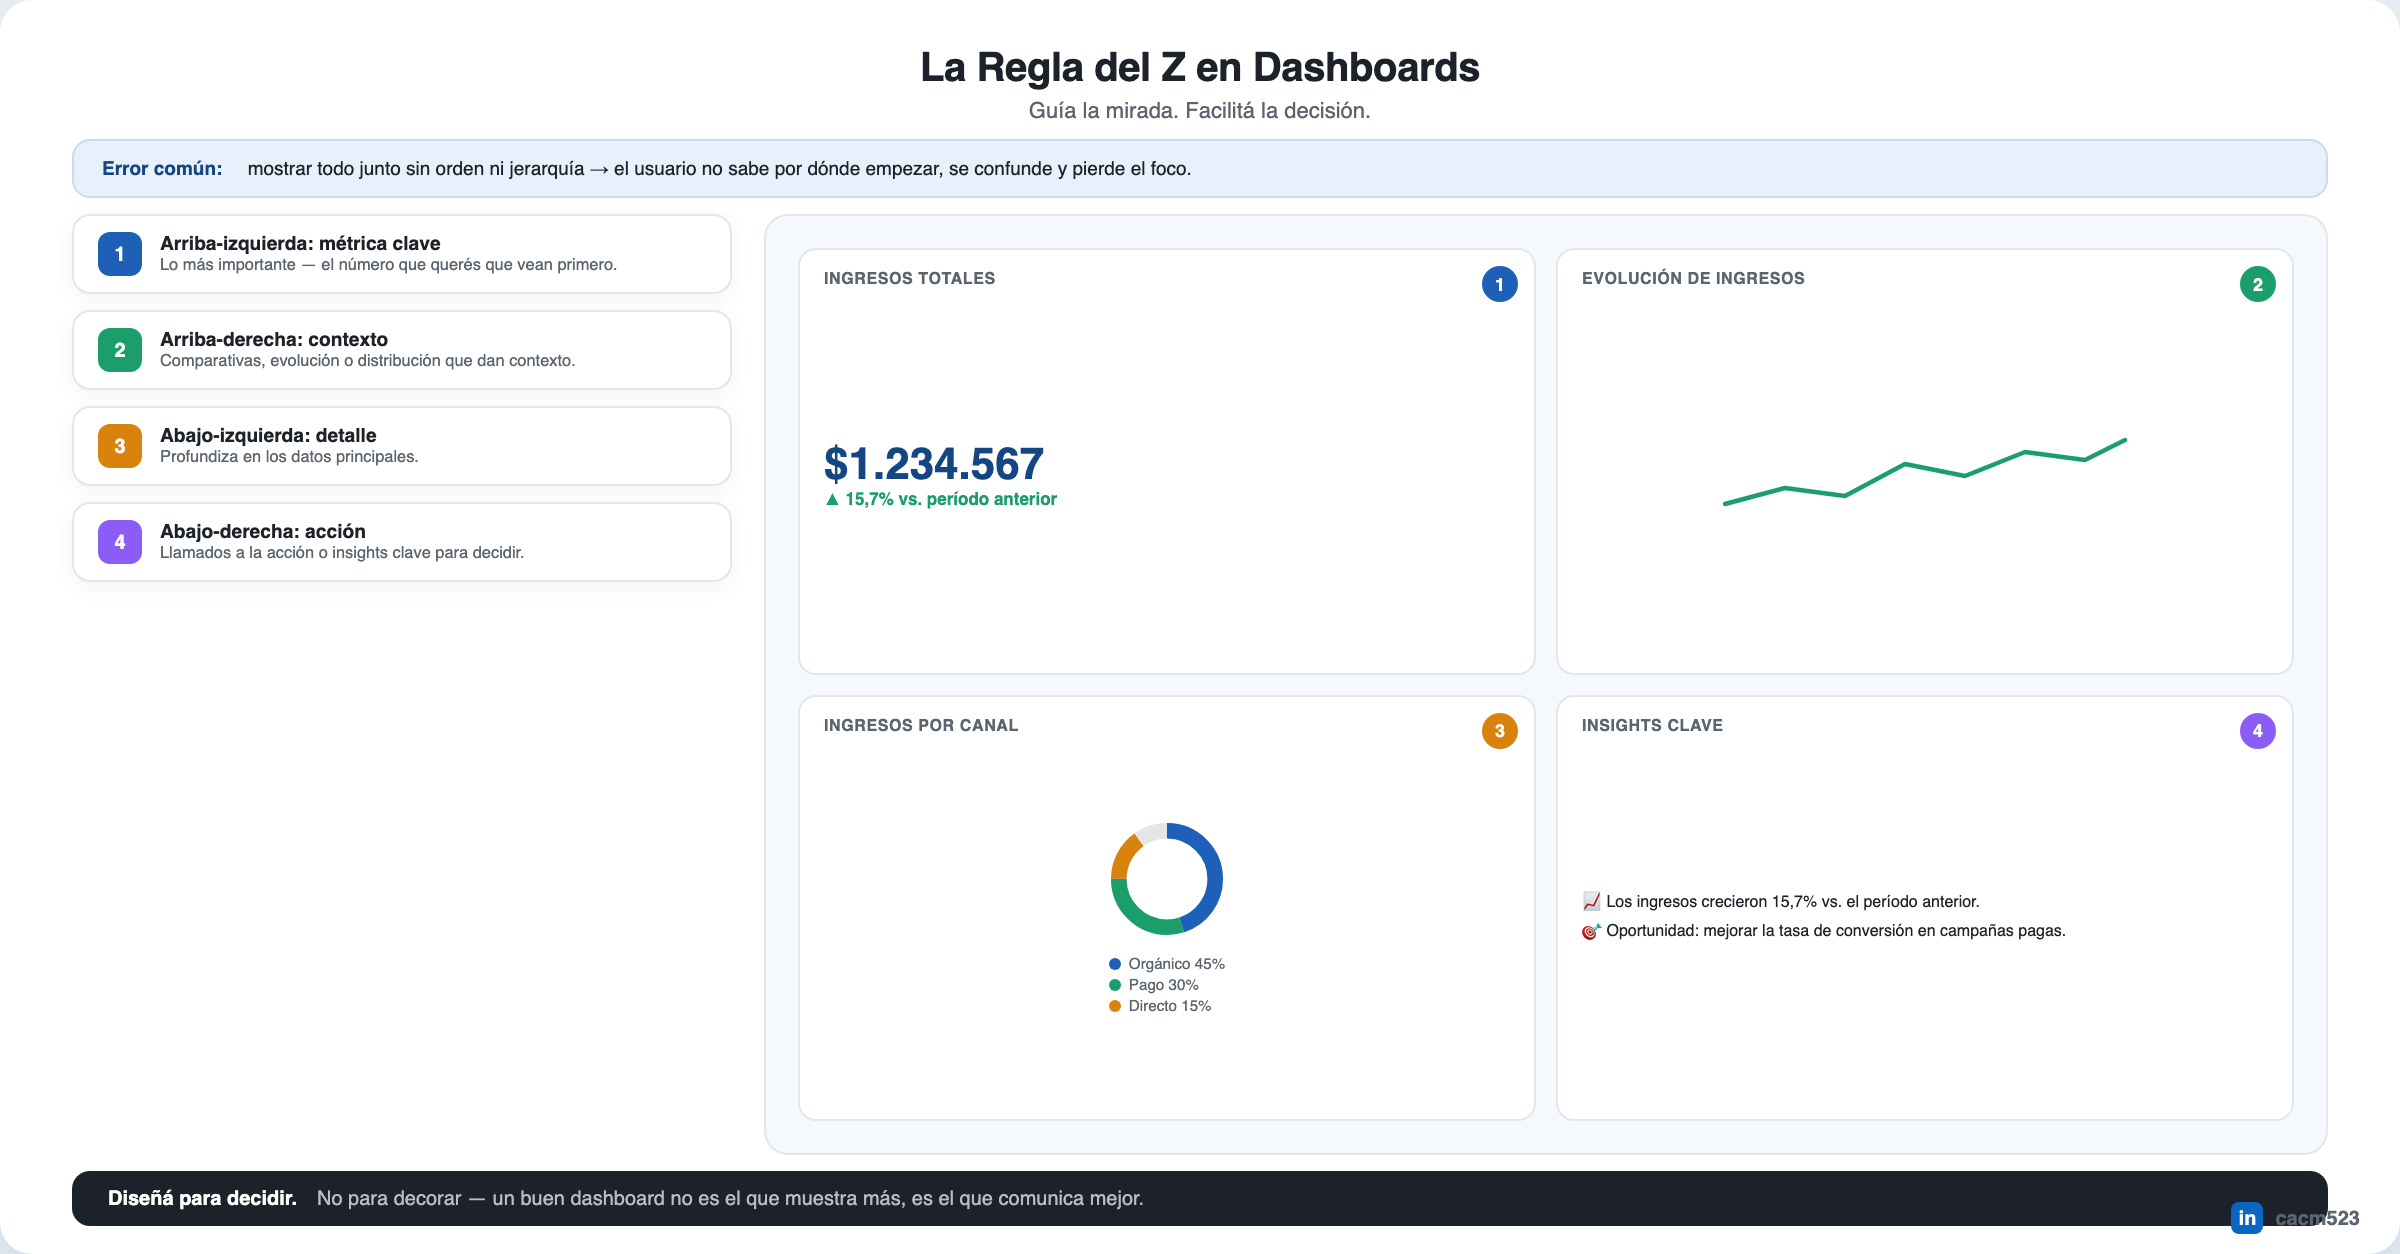
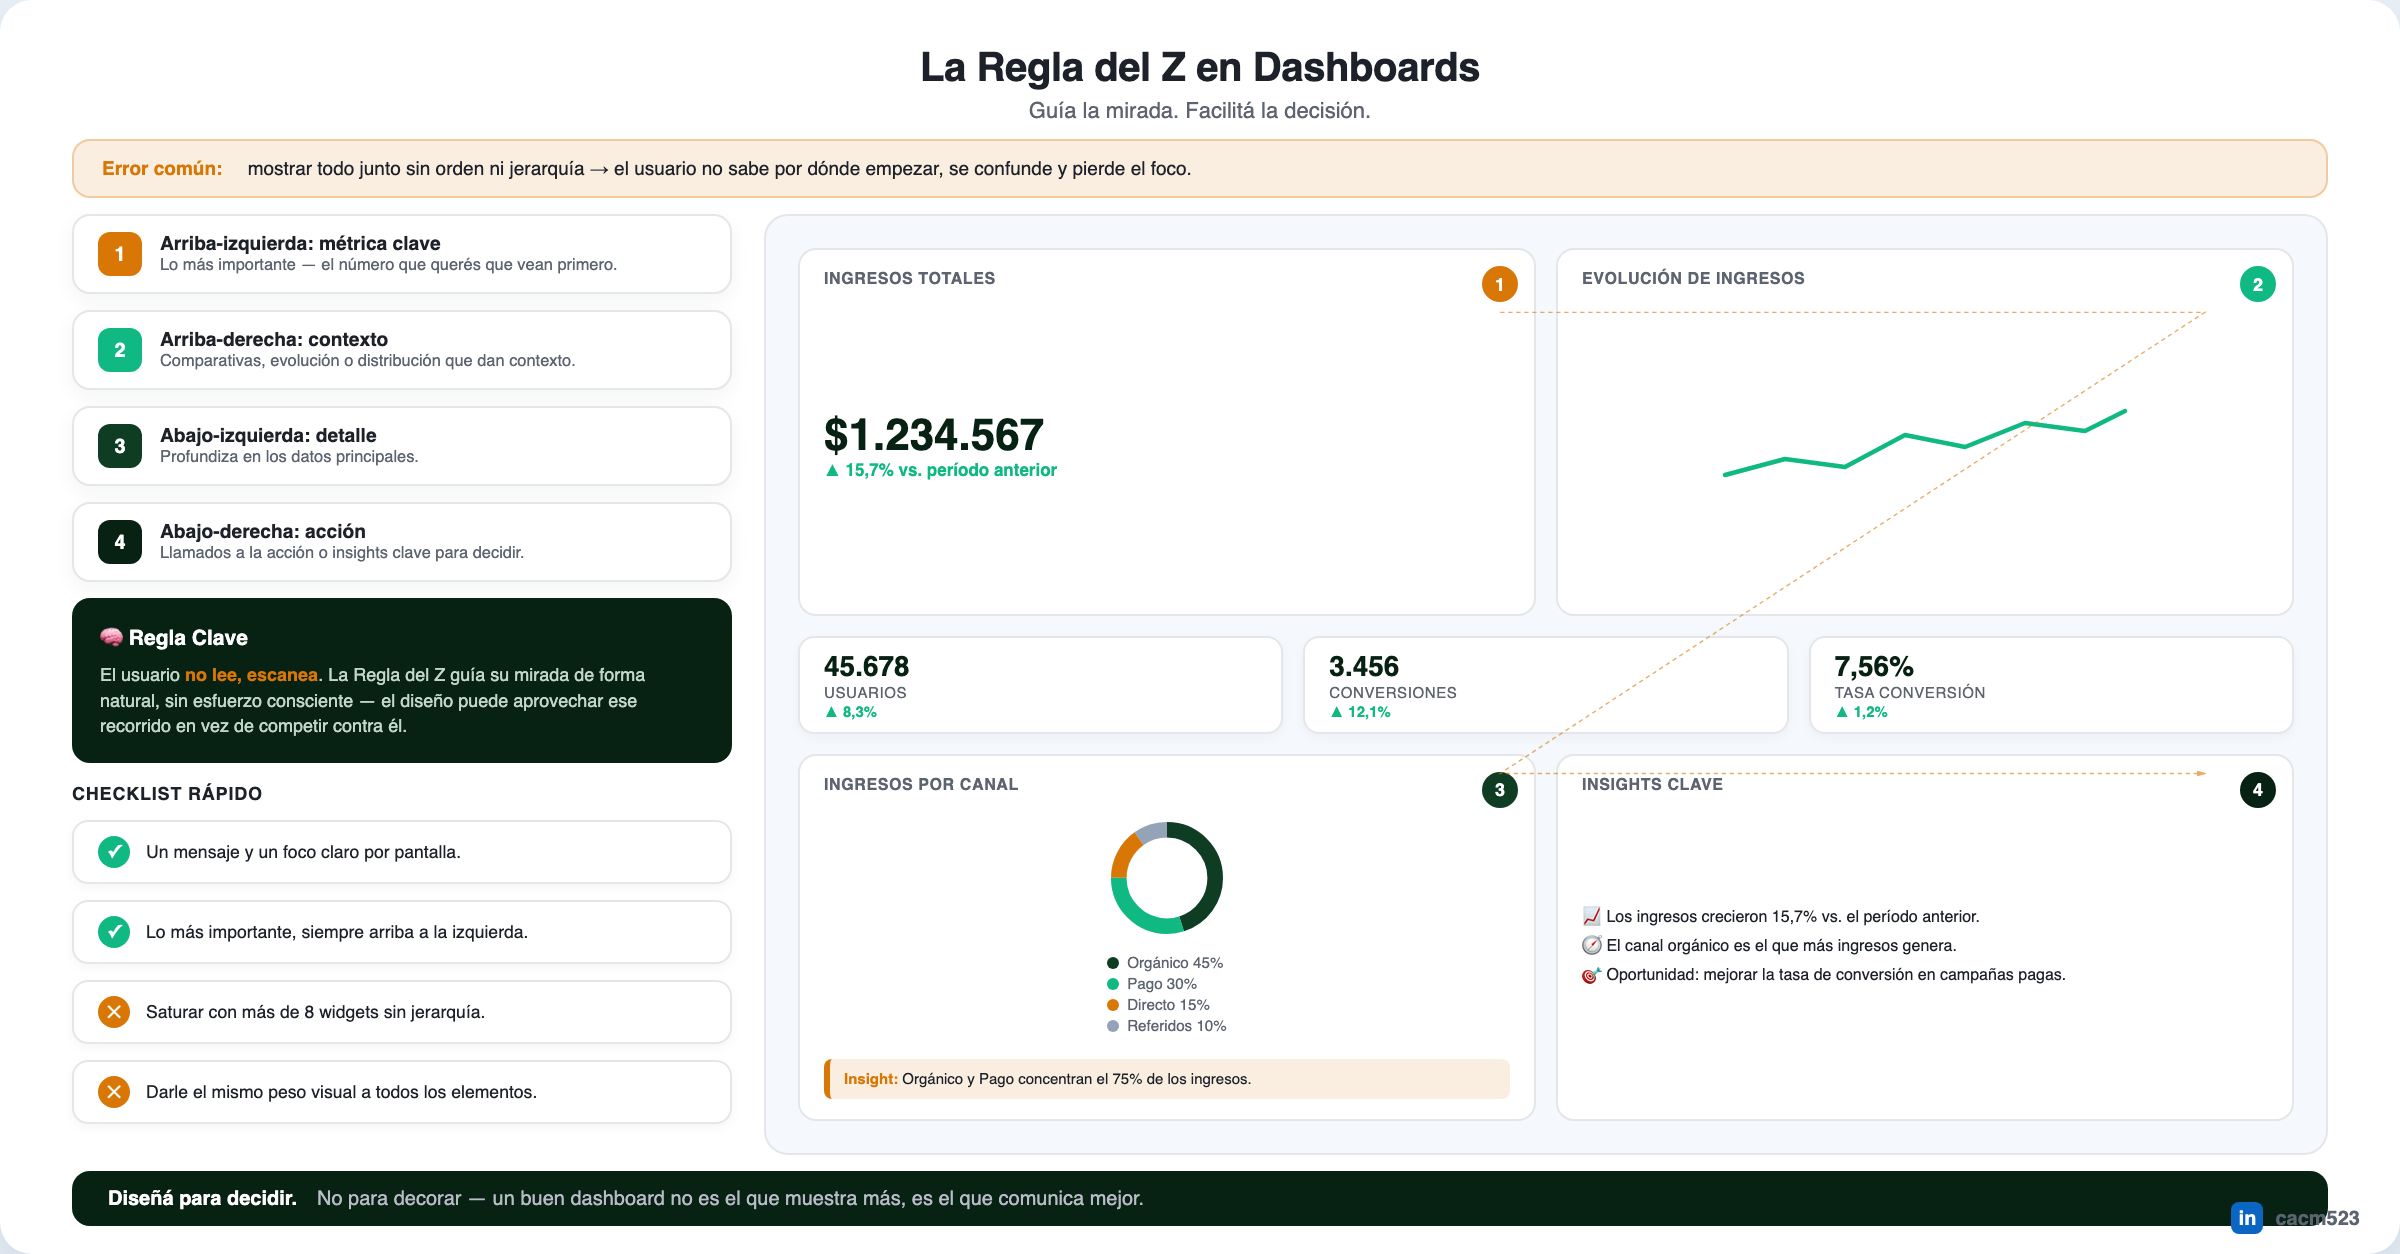
Enriquece y recolorea infografía La Regla del Z en Dashboards
Corrige la paleta azul/verde/ámbar/violeta (fuera del sistema de diseño
del proyecto) a la paleta verde+tierra establecida en INFOGRAFIA-SPEC.md.

Restaura contenido de la referencia original que se había perdido al
construir la pieza: la flecha en Z superpuesta sobre el mockup (existía
una clase .zpath definida en el CSS pero nunca usada en el HTML), la fila
de 3 KPIs secundarios (Usuarios, Conversiones, Tasa de Conversión), la
4ª categoría del donut "Referidos 10%" (antes el desglose sumaba 90%, no
100%), y el insight "el canal orgánico es el que más ingresos genera".

Agrega un panel "Regla Clave" y un checklist rápido (2 aciertos / 2
errores comunes) para aprovechar el espacio vacío de la columna
izquierda, señalado por el usuario como subutilizado.

diff --git a/Construidos/Dashboard/reglas-diseno-dashboard.html b/Construidos/Dashboard/reglas-diseno-dashboard.html
@@ -6,8 +6,9 @@
 <meta name="viewport" content="width=device-width, initial-scale=1">
 <style>
   :root{
-    --blue:#1E5FB8; --blue-dark:#154684; --blue-pale:#E8F0FB; --blue-line:#C7DCF3;
-    --green:#1B9E6B; --amber:#D9820E; --purple:#8B5CF6;
+    --green-dark:#072113; --green-primary:#0e3d23; --green-glow:#10b981;
+    --earth-accent:#d97706; --earth-bg:rgba(217,119,6,0.12); --earth-line:rgba(217,119,6,0.3);
+    --gray-accent:#94a3b8;
     --ink:#1D2129; --muted:#5C6470; --line:#E4E6EA; --white:#FFFFFF;
   }
   *{box-sizing:border-box;}
@@ -30,8 +31,8 @@
   .header h1{ font-size:20px; margin:0 0 4px; font-weight:800; letter-spacing:-0.2px; }
   .header p{ margin:0 auto; font-size:11px; color:var(--muted); max-width:640px; }
 
-  .error{ display:flex; gap:10px; background:var(--blue-pale); border:1px solid var(--blue-line); border-radius:9px; padding:8px 14px; margin-bottom:8px; font-size:9.5px; }
-  .error b{ color:var(--blue-dark); }
+  .error{ display:flex; gap:10px; background:var(--earth-bg); border:1px solid var(--earth-line); border-radius:9px; padding:8px 14px; margin-bottom:8px; font-size:9.5px; }
+  .error b{ color:var(--earth-accent); }
 
   .layout{ flex:1; display:grid; grid-template-columns: 330px 1fr; gap:16px; }
 
@@ -41,25 +42,44 @@
   .zone b{ display:block; font-size:9.6px; font-weight:800; }
   .zone span{ display:block; font-size:8.2px; color:var(--muted); line-height:1.3; }
 
+  .rule-callout{ background:var(--green-dark); color:#EDEFF3; border-radius:9px; padding:12px 14px; display:flex; flex-direction:column; gap:5px; }
+  .rule-callout .rc-title{ font-size:10.5px; font-weight:800; color:#fff; display:flex; align-items:center; gap:5px; }
+  .rule-callout p{ margin:0; font-size:9px; line-height:1.42; color:#C3D6CC; }
+  .rule-callout p b{ color:var(--earth-accent); }
+
+  .checklist-title{ font-size:9px; font-weight:800; color:var(--ink); text-transform:uppercase; letter-spacing:0.4px; margin-top:2px; }
+  .check-row{ display:flex; align-items:center; gap:8px; background:var(--white); border:1px solid var(--line); border-radius:8px; padding:7px 12px; font-size:8.8px; color:var(--ink); box-shadow:0 2px 6px rgba(29,33,41,0.04); }
+  .check-row .ck-icon{ width:16px; height:16px; border-radius:50%; flex:none; display:flex; align-items:center; justify-content:center; font-size:9px; font-weight:800; color:#fff; }
+  .check-row.good .ck-icon{ background:var(--green-glow); }
+  .check-row.bad .ck-icon{ background:var(--earth-accent); }
+
   .mockup{ position:relative; background:#F5F8FC; border:1px solid var(--line); border-radius:12px; padding:16px; }
-  .mockup-grid{ position:relative; height:100%; display:grid; grid-template-columns:1fr 1fr; grid-template-rows:1fr 1fr; gap:10px; }
-  .widget{ background:var(--white); border:1px solid var(--line); border-radius:9px; padding:10px 12px; position:relative; display:flex; flex-direction:column; }
-  .widget .badge{ position:absolute; top:8px; right:8px; width:18px; height:18px; border-radius:50%; color:#fff; font-size:9px; font-weight:800; display:flex; align-items:center; justify-content:center; }
+  .mockup-grid{ position:relative; height:100%; display:grid; grid-template-columns:1fr 1fr; grid-template-rows:1fr auto 1fr; gap:10px; }
+  .widget{ background:var(--white); border:1px solid var(--line); border-radius:9px; padding:10px 12px; position:relative; display:flex; flex-direction:column; z-index:1; }
+  .widget .badge{ position:absolute; top:8px; right:8px; width:18px; height:18px; border-radius:50%; color:#fff; font-size:9px; font-weight:800; display:flex; align-items:center; justify-content:center; z-index:3; }
   .widget-body{ flex:1; display:flex; flex-direction:column; justify-content:center; }
   .widget b.lbl{ display:block; font-size:8px; color:var(--muted); text-transform:uppercase; letter-spacing:0.3px; margin-bottom:4px; font-weight:700; }
-  .metric-val{ font-size:22px; font-weight:800; color:var(--blue-dark); }
-  .metric-sub{ font-size:8.5px; color:var(--green); font-weight:700; }
+  .metric-val{ font-size:22px; font-weight:800; color:var(--green-dark); }
+  .metric-sub{ font-size:8.5px; color:var(--green-glow); font-weight:700; }
   .line-chart svg{ width:100%; height:50px; }
   .donut{ display:flex; align-items:center; gap:10px; }
   .donut svg{ width:56px; height:56px; }
   .legend div{ font-size:7.6px; color:var(--muted); display:flex; align-items:center; gap:4px; margin-bottom:2px; }
   .legend .d{ width:6px; height:6px; border-radius:50%; }
   .insight{ font-size:8px; color:var(--ink); display:flex; gap:5px; align-items:flex-start; margin-bottom:4px; line-height:1.3; }
-  .zpath{ position:absolute; inset:16px; pointer-events:none; width:calc(100% - 32px); height:calc(100% - 32px); }
+  .donut-insight{ margin-top:auto; background:var(--earth-bg); border-left:3px solid var(--earth-accent); border-radius:4px; padding:5px 7px; font-size:7.5px; line-height:1.35; color:var(--ink); }
+  .donut-insight b{ color:var(--earth-accent); }
+  .zpath{ position:absolute; inset:16px; pointer-events:none; width:calc(100% - 32px); height:calc(100% - 32px); z-index:2; overflow:visible; }
+
+  .kpi-strip{ grid-column: 1 / -1; display:grid; grid-template-columns:1fr 1fr 1fr; gap:10px; z-index:1; position:relative; }
+  .mini-kpi{ background:var(--white); border:1px solid var(--line); border-radius:8px; padding:6px 12px; display:flex; flex-direction:column; gap:1px; box-shadow:0 2px 6px rgba(29,33,41,0.04); }
+  .mini-val{ font-size:14px; font-weight:800; color:var(--green-dark); }
+  .mini-lbl{ font-size:7.5px; color:var(--muted); text-transform:uppercase; letter-spacing:.3px; }
+  .mini-delta{ font-size:7.5px; color:var(--green-glow); font-weight:700; }
 
   .ribbon{
     margin-top:8px; display:flex; align-items:center; gap:10px;
-    background:var(--ink); color:#EDEFF3; border-radius:9px; padding:8px 18px; font-size:10px;
+    background:var(--green-dark); color:#EDEFF3; border-radius:9px; padding:8px 18px; font-size:10px;
   }
   .ribbon b{ color:#fff; }
   .ribbon span{ color:#B7BCC6; }
@@ -83,33 +103,63 @@
 
     <div class="layout">
       <div class="zones">
-        <div class="zone"><div class="n" style="background:var(--blue);">1</div><div><b>Arriba-izquierda: métrica clave</b><span>Lo más importante — el número que querés que vean primero.</span></div></div>
-        <div class="zone"><div class="n" style="background:var(--green);">2</div><div><b>Arriba-derecha: contexto</b><span>Comparativas, evolución o distribución que dan contexto.</span></div></div>
-        <div class="zone"><div class="n" style="background:var(--amber);">3</div><div><b>Abajo-izquierda: detalle</b><span>Profundiza en los datos principales.</span></div></div>
-        <div class="zone"><div class="n" style="background:var(--purple);">4</div><div><b>Abajo-derecha: acción</b><span>Llamados a la acción o insights clave para decidir.</span></div></div>
+        <div class="zone"><div class="n" style="background:var(--earth-accent);">1</div><div><b>Arriba-izquierda: métrica clave</b><span>Lo más importante — el número que querés que vean primero.</span></div></div>
+        <div class="zone"><div class="n" style="background:var(--green-glow);">2</div><div><b>Arriba-derecha: contexto</b><span>Comparativas, evolución o distribución que dan contexto.</span></div></div>
+        <div class="zone"><div class="n" style="background:var(--green-primary);">3</div><div><b>Abajo-izquierda: detalle</b><span>Profundiza en los datos principales.</span></div></div>
+        <div class="zone"><div class="n" style="background:var(--green-dark);">4</div><div><b>Abajo-derecha: acción</b><span>Llamados a la acción o insights clave para decidir.</span></div></div>
+
+        <div class="rule-callout">
+          <div class="rc-title">🧠 Regla Clave</div>
+          <p>El usuario <b>no lee, escanea</b>. La Regla del Z guía su mirada de forma natural, sin esfuerzo consciente — el diseño puede aprovechar ese recorrido en vez de competir contra él.</p>
+        </div>
+
+        <div class="checklist-title">Checklist Rápido</div>
+        <div class="check-row good"><span class="ck-icon">✓</span><span>Un mensaje y un foco claro por pantalla.</span></div>
+        <div class="check-row good"><span class="ck-icon">✓</span><span>Lo más importante, siempre arriba a la izquierda.</span></div>
+        <div class="check-row bad"><span class="ck-icon">✕</span><span>Saturar con más de 8 widgets sin jerarquía.</span></div>
+        <div class="check-row bad"><span class="ck-icon">✕</span><span>Darle el mismo peso visual a todos los elementos.</span></div>
       </div>
 
       <div class="mockup">
         <div class="mockup-grid">
-          <div class="widget"><div class="badge" style="background:var(--blue);">1</div><b class="lbl">Ingresos Totales</b>
+          <svg class="zpath" viewBox="0 0 100 100" preserveAspectRatio="none">
+            <defs>
+              <marker id="zhead" markerWidth="6" markerHeight="6" refX="4.5" refY="3" orient="auto">
+                <path d="M0,0 L6,3 L0,6 Z" fill="var(--earth-accent)"/>
+              </marker>
+            </defs>
+            <path d="M 46.8 4 L 96 4 L 46.8 61 L 96 61" fill="none" stroke="var(--earth-accent)" stroke-width="0.7" stroke-dasharray="2.2 1.8" opacity="0.6" marker-end="url(#zhead)" vector-effect="non-scaling-stroke"/>
+          </svg>
+
+          <div class="widget"><div class="badge" style="background:var(--earth-accent);">1</div><b class="lbl">Ingresos Totales</b>
             <div class="widget-body"><div class="metric-val">$1.234.567</div><div class="metric-sub">▲ 15,7% vs. período anterior</div></div>
           </div>
-          <div class="widget"><div class="badge" style="background:var(--green);">2</div><b class="lbl">Evolución de Ingresos</b>
-            <div class="widget-body line-chart"><svg viewBox="0 0 200 50"><polyline points="0,40 30,32 60,36 90,20 120,26 150,14 180,18 200,8" fill="none" stroke="#1B9E6B" stroke-width="2.2" stroke-linecap="round" stroke-linejoin="round"/></svg></div>
+          <div class="widget"><div class="badge" style="background:var(--green-glow);">2</div><b class="lbl">Evolución de Ingresos</b>
+            <div class="widget-body line-chart"><svg viewBox="0 0 200 50"><polyline points="0,40 30,32 60,36 90,20 120,26 150,14 180,18 200,8" fill="none" stroke="#10b981" stroke-width="2.2" stroke-linecap="round" stroke-linejoin="round"/></svg></div>
           </div>
-          <div class="widget"><div class="badge" style="background:var(--amber);">3</div><b class="lbl">Ingresos por Canal</b>
+
+          <div class="kpi-strip">
+            <div class="mini-kpi"><span class="mini-val">45.678</span><span class="mini-lbl">Usuarios</span><span class="mini-delta">▲ 8,3%</span></div>
+            <div class="mini-kpi"><span class="mini-val">3.456</span><span class="mini-lbl">Conversiones</span><span class="mini-delta">▲ 12,1%</span></div>
+            <div class="mini-kpi"><span class="mini-val">7,56%</span><span class="mini-lbl">Tasa Conversión</span><span class="mini-delta">▲ 1,2%</span></div>
+          </div>
+
+          <div class="widget"><div class="badge" style="background:var(--green-primary);">3</div><b class="lbl">Ingresos por Canal</b>
             <div class="widget-body donut">
               <svg viewBox="0 0 36 36"><circle cx="18" cy="18" r="15.5" fill="none" stroke="#E4E6EA" stroke-width="5"/>
-                <circle cx="18" cy="18" r="15.5" fill="none" stroke="#1E5FB8" stroke-width="5" stroke-dasharray="43.8 97.4" stroke-dashoffset="0" transform="rotate(-90 18 18)"/>
-                <circle cx="18" cy="18" r="15.5" fill="none" stroke="#1B9E6B" stroke-width="5" stroke-dasharray="29.2 97.4" stroke-dashoffset="-43.8" transform="rotate(-90 18 18)"/>
-                <circle cx="18" cy="18" r="15.5" fill="none" stroke="#D9820E" stroke-width="5" stroke-dasharray="14.6 97.4" stroke-dashoffset="-73" transform="rotate(-90 18 18)"/>
+                <circle cx="18" cy="18" r="15.5" fill="none" stroke="#0e3d23" stroke-width="5" stroke-dasharray="43.83 97.4" stroke-dashoffset="0" transform="rotate(-90 18 18)"/>
+                <circle cx="18" cy="18" r="15.5" fill="none" stroke="#10b981" stroke-width="5" stroke-dasharray="29.22 97.4" stroke-dashoffset="-43.83" transform="rotate(-90 18 18)"/>
+                <circle cx="18" cy="18" r="15.5" fill="none" stroke="#d97706" stroke-width="5" stroke-dasharray="14.61 97.4" stroke-dashoffset="-73.05" transform="rotate(-90 18 18)"/>
+                <circle cx="18" cy="18" r="15.5" fill="none" stroke="#94a3b8" stroke-width="5" stroke-dasharray="9.74 97.4" stroke-dashoffset="-87.66" transform="rotate(-90 18 18)"/>
               </svg>
-              <div class="legend"><div><span class="d" style="background:#1E5FB8;"></span>Orgánico 45%</div><div><span class="d" style="background:#1B9E6B;"></span>Pago 30%</div><div><span class="d" style="background:#D9820E;"></span>Directo 15%</div></div>
+              <div class="legend"><div><span class="d" style="background:#0e3d23;"></span>Orgánico 45%</div><div><span class="d" style="background:#10b981;"></span>Pago 30%</div><div><span class="d" style="background:#d97706;"></span>Directo 15%</div><div><span class="d" style="background:#94a3b8;"></span>Referidos 10%</div></div>
             </div>
+            <div class="donut-insight"><b>Insight:</b> Orgánico y Pago concentran el 75% de los ingresos.</div>
           </div>
-          <div class="widget"><div class="badge" style="background:var(--purple);">4</div><b class="lbl">Insights Clave</b>
+          <div class="widget"><div class="badge" style="background:var(--green-dark);">4</div><b class="lbl">Insights Clave</b>
             <div class="widget-body">
               <div class="insight">📈 Los ingresos crecieron 15,7% vs. el período anterior.</div>
+              <div class="insight">🧭 El canal orgánico es el que más ingresos genera.</div>
               <div class="insight">🎯 Oportunidad: mejorar la tasa de conversión en campañas pagas.</div>
             </div>
           </div>
